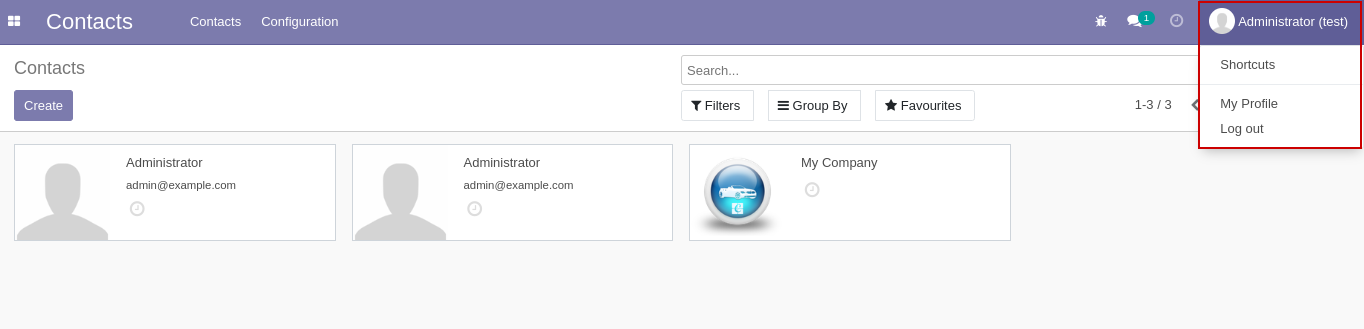
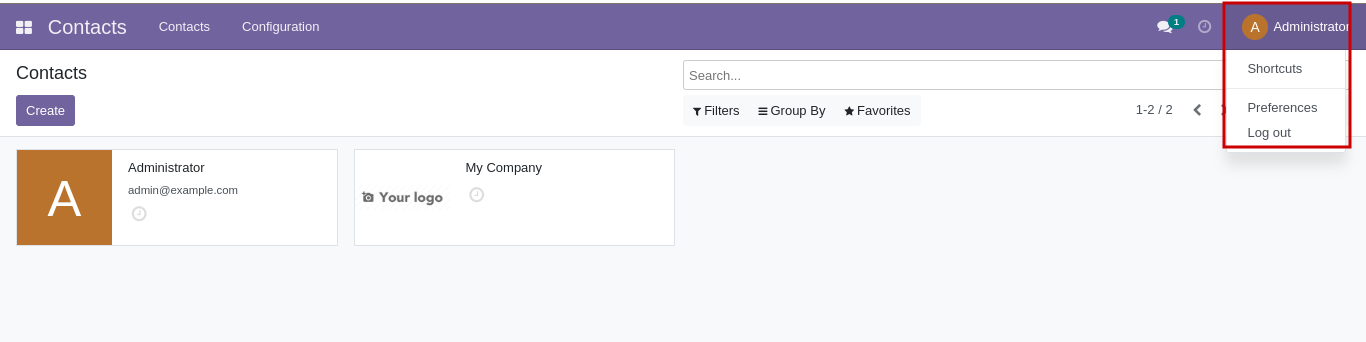
Upgrade to Odoo 15

diff --git a/hide_odoo_brand_in_top_right_corner/static/src/js/extended_user_menu.js b/hide_odoo_brand_in_top_right_corner/static/src/js/extended_user_menu.js
@@ -1,0 +1,16 @@
+/** @odoo-module **/
+import { UserMenu } from "@web/webclient/user_menu/user_menu";
+import { patch } from "@web/core/utils/patch";
+import { registry } from "@web/core/registry";
+const userMenuRegistry = registry.category("user_menuitems");
+
+
+patch(UserMenu.prototype, "hide_odoo_brand_in_top_right_corner.UserMenu", {
+    setup() {
+        this._super.apply(this, arguments);
+        userMenuRegistry.remove("documentation");
+        userMenuRegistry.remove("support");
+        userMenuRegistry.remove("odoo_account");
+    },
+    
+});

diff --git a/hide_odoo_brand_in_top_right_corner/__manifest__.py b/hide_odoo_brand_in_top_right_corner/__manifest__.py
@@ -13,7 +13,11 @@
     'category': 'Customizations',
     'version': '14.0.1',
     'depends': ['base'],
-    'qweb': ['static/src/xml/*.xml'],
+    'assets': {
+        'web.assets_backend': [
+            'hide_odoo_brand_in_top_right_corner/static/src/js/extended_user_menu.js',
+        ],
+    },
     'images': ['static/description/banner.png'],
     'license': 'AGPL-3',
     'installable': True,
